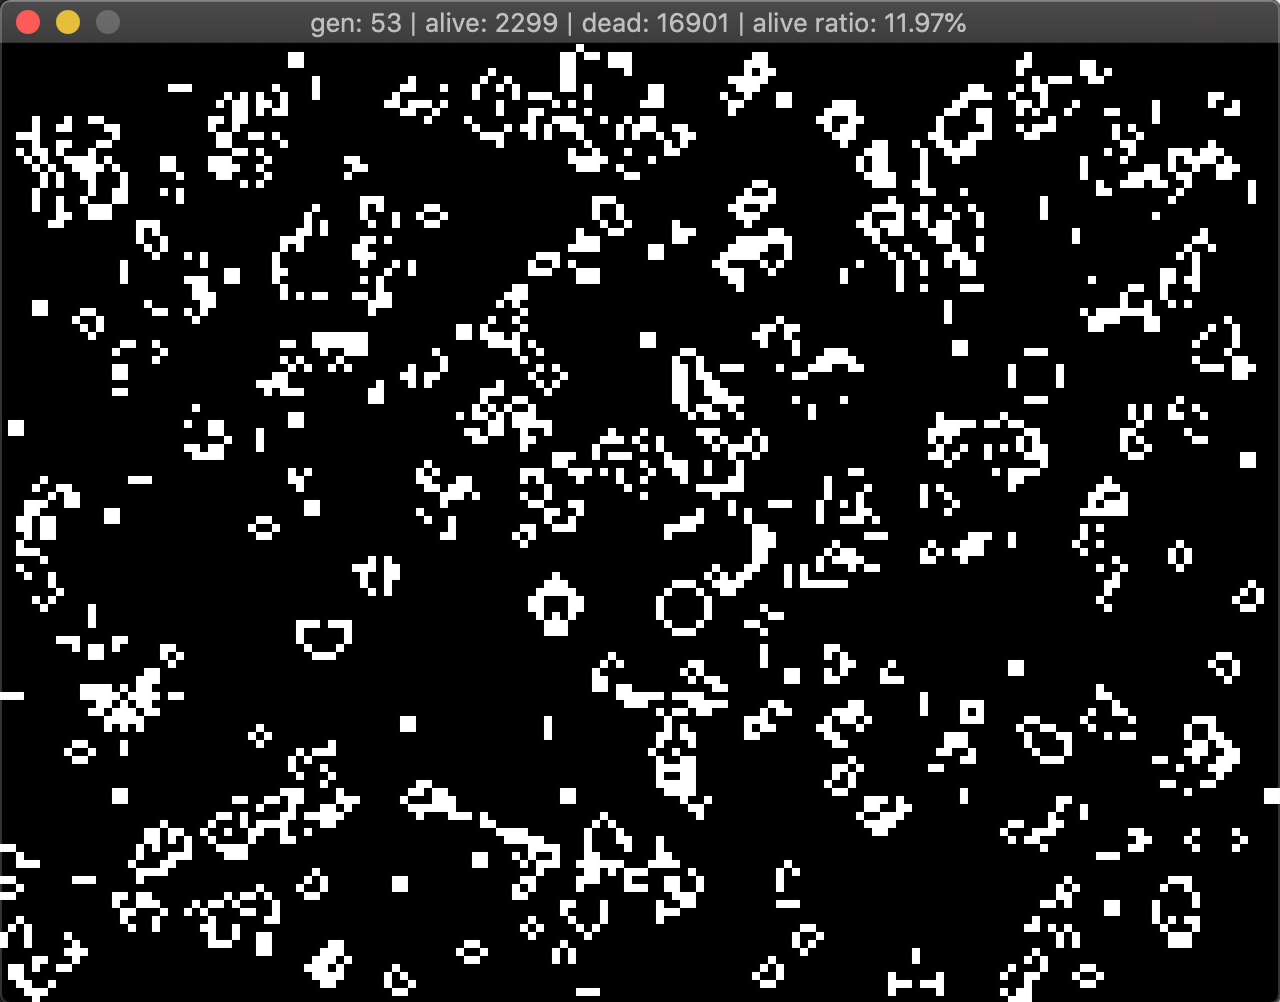
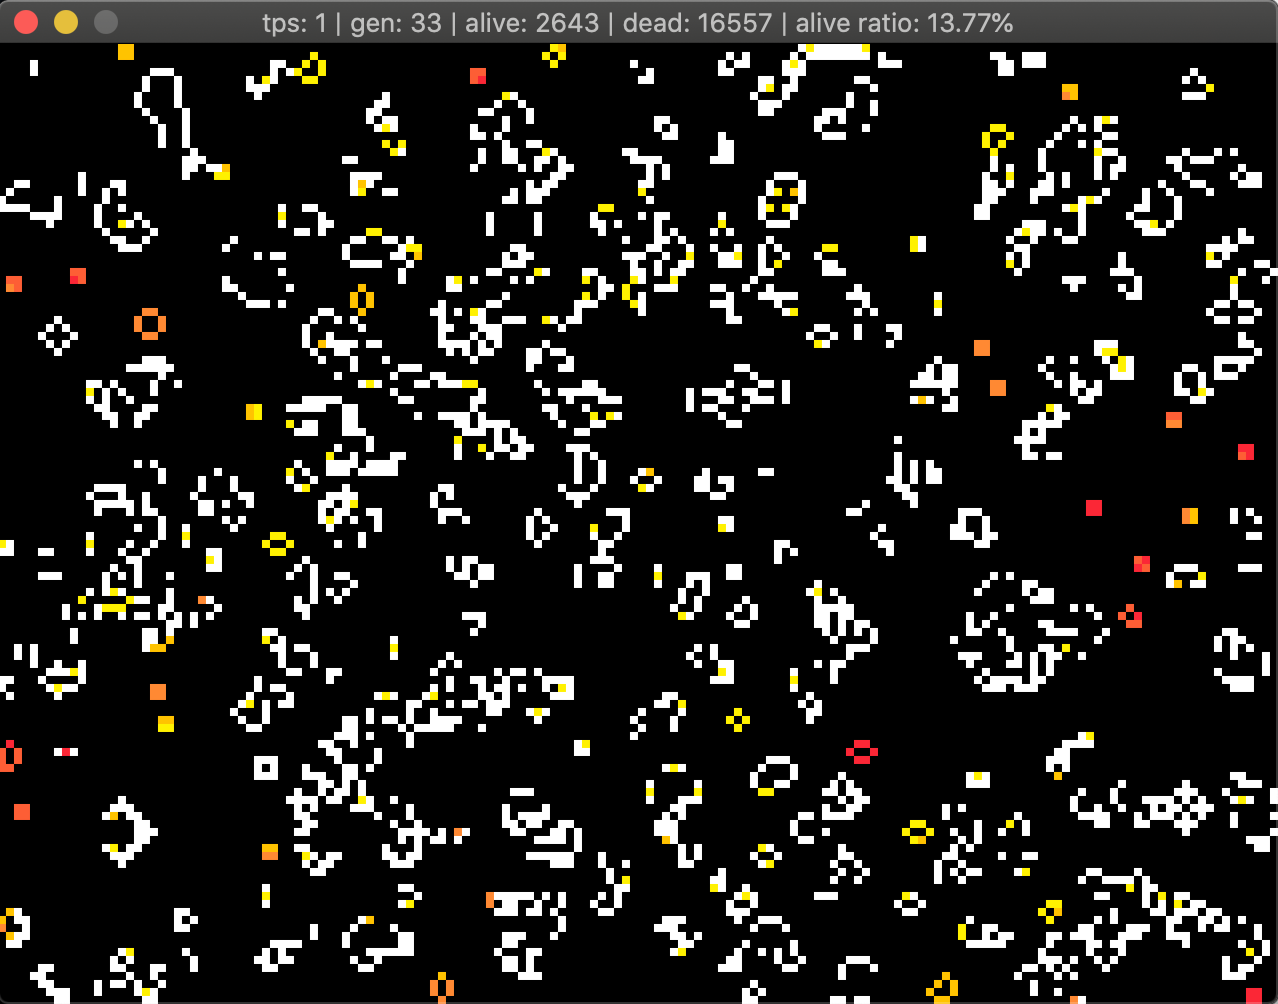
Add heatmap based on alive age and keys to modify TPS

diff --git a/world.go b/world.go
@@ -3,15 +3,31 @@ package main
 import (
 	"fmt"
 	"log"
+	"math"
 	"math/rand"
+	"sort"
 
 	"github.com/hajimehoshi/ebiten/v2"
 )
 
+var heatMapClr map[int][4]byte = map[int][4]byte{
+	0:  [4]byte{0xff, 0xff, 0xff, 0xff},
+	5:  [4]byte{0xff, 0xf3, 0x3b, 0xff},
+	10: [4]byte{0xfd, 0xc7, 0x0c, 0xff},
+	15: [4]byte{0xf3, 0x90, 0x3f, 0xff},
+	20: [4]byte{0xed, 0x68, 0x3c, 0xff},
+	25: [4]byte{0xe9, 0x3e, 0x3a, 0xff},
+}
+
+type Cell struct {
+	alive bool
+	age   int
+}
+
 type World struct {
 	width  int
 	height int
-	mtx    [][]bool
+	mtx    [][]Cell
 }
 
 func (w *World) heavyWeightSpaceship(x, y int) {
@@ -20,40 +36,45 @@ func (w *World) heavyWeightSpaceship(x, y int) {
 		log.Print("heavy weight spaceship index out of range")
 		return
 	}
-	w.mtx[x+2][y] = true
-	w.mtx[x+3][y] = true
 
-	w.mtx[x][y+1] = true
-	w.mtx[x+5][y+1] = true
+	hws := []point{
+		point{x: 2, y: 0, alive: true},
+		point{x: 3, y: 0, alive: true},
+		point{x: 0, y: 1, alive: true},
+		point{x: 5, y: 1, alive: true},
+		point{x: 6, y: 2, alive: true},
+		point{x: 0, y: 3, alive: true},
+		point{x: 6, y: 3, alive: true},
+		point{x: 1, y: 4, alive: true},
+		point{x: 2, y: 4, alive: true},
+		point{x: 3, y: 4, alive: true},
+		point{x: 4, y: 4, alive: true},
+		point{x: 5, y: 4, alive: true},
+		point{x: 6, y: 4, alive: true},
+	}
 
-	w.mtx[x+6][y+2] = true
-
-	w.mtx[x][y+3] = true
-	w.mtx[x+6][y+3] = true
-
-	w.mtx[x+1][y+4] = true
-	w.mtx[x+2][y+4] = true
-	w.mtx[x+3][y+4] = true
-	w.mtx[x+4][y+4] = true
-	w.mtx[x+5][y+4] = true
-	w.mtx[x+6][y+4] = true
+	for _, v := range hws {
+		w.mtx[x+v.x][y+v.y].alive = v.alive
+	}
 }
 
 func (w *World) randPopulate() {
 	for i := 0; i < 1337; i++ {
 		x := rand.Intn(w.width)
 		y := rand.Intn(w.height)
-		w.mtx[x][y] = true
+		w.mtx[x][y].alive = true
+		w.mtx[x][y].age = 1
 	}
-	globalTick = 0
 }
 
 func (w *World) reset() {
 	for x := range w.mtx {
 		for y := range w.mtx[x] {
-			w.mtx[x][y] = false
+			w.mtx[x][y].alive = false
+			w.mtx[x][y].age = 0
 		}
 	}
+	globalTick = 0
 }
 
 func (w *World) toPixel(p []byte) []byte {
@@ -65,9 +86,29 @@ func (w *World) toPixel(p []byte) []byte {
 			for n := range tmp {
 				tmp[n] = i + j + n
 			}
-			for _, pos := range tmp {
-				if w.mtx[x][y] {
-					p[pos] = 0xff
+
+			curr := w.mtx[x][y]
+
+			// needs to sort
+			keys := []int{}
+			for k := range heatMapClr {
+				keys = append(keys, k)
+			}
+			sort.Ints(keys)
+
+			// find interval
+			interClr := 0
+			for _, k := range keys {
+				if curr.age > k {
+					interClr = k
+					continue
+				}
+				break
+			}
+
+			for idx, pos := range tmp {
+				if w.mtx[x][y].alive {
+					p[pos] = heatMapClr[interClr][idx]
 					continue
 				}
 				p[pos] = 0
@@ -123,7 +164,7 @@ func (w *World) update() {
 	currAlive := 0
 	for x := 0; x < w.width; x++ {
 		for y := 0; y < w.height; y++ {
-			if w.mtx[x][y] {
+			if w.mtx[x][y].alive {
 				currAlive++
 			}
 			// Check all direction
@@ -142,7 +183,7 @@ func (w *World) update() {
 					continue
 				}
 
-				curr.alive = w.mtx[curr.x][curr.y]
+				curr.alive = w.mtx[curr.x][curr.y].alive
 				neigh = append(neigh, curr)
 
 			}
@@ -157,18 +198,21 @@ func (w *World) update() {
 			}
 
 			// Any live cell with two or three live neighbours survives.
-			if w.mtx[x][y] == true && (alive == 2 || alive == 3) {
+			if w.mtx[x][y].alive == true && (alive == 2 || alive == 3) {
+				w.mtx[x][y].age++
 				continue
 			}
 
 			// Any dead cell with three live neighbours becomes a live cell.
-			if w.mtx[x][y] == false && alive == 3 {
+			if w.mtx[x][y].alive == false && alive == 3 {
+				w.mtx[x][y].age = 1
 				next = append(next, point{x: x, y: y, alive: true})
 				continue
 			}
 
 			// All other live cells die in the next generation. Similarly, all other dead cells stay dead.
-			if w.mtx[x][y] == true {
+			if w.mtx[x][y].alive == true {
+				w.mtx[x][y].age = 0
 				next = append(next, point{x: x, y: y, alive: false})
 			}
 		}
@@ -177,7 +221,8 @@ func (w *World) update() {
 	currDead := w.width*w.height - currAlive
 	currAliveRatio := (float64(currAlive) / float64(currAlive+currDead)) * 100
 	ebiten.SetWindowTitle(
-		fmt.Sprintf("gen: %d | alive: %d | dead: %d | alive ratio: %.2f%%",
+		fmt.Sprintf("tps: %d | gen: %d | alive: %d | dead: %d | alive ratio: %.2f%%",
+			int(math.Round(ebiten.CurrentTPS())),
 			globalTick,
 			currAlive,
 			currDead,
@@ -185,6 +230,6 @@ func (w *World) update() {
 		))
 
 	for _, v := range next {
-		w.mtx[v.x][v.y] = v.alive
+		w.mtx[v.x][v.y].alive = v.alive
 	}
 }

diff --git a/main.go b/main.go
@@ -2,6 +2,7 @@ package main
 
 import (
 	"log"
+	"math"
 	"math/rand"
 	"time"
 
@@ -36,11 +37,21 @@ func (g *Game) Draw(screen *ebiten.Image) {
 			g.world.reset()
 		}
 
-		// p: reset world
+		// p: populate world
 		if ebiten.IsKeyPressed(ebiten.KeyP) {
 			log.Print("populating world")
 			g.world.randPopulate()
 		}
+	}
+
+	// update tps, up or down
+	currTPS := int(math.Round(ebiten.CurrentTPS()))
+	if ebiten.IsKeyPressed(ebiten.KeyUp) {
+		ebiten.SetMaxTPS(currTPS + 1)
+	}
+
+	if ebiten.IsKeyPressed(ebiten.KeyDown) && currTPS > 0 {
+		ebiten.SetMaxTPS(currTPS - 1)
 	}
 
 	// draw
@@ -58,10 +69,10 @@ func (g *Game) Update() error {
 	return nil
 }
 
-func initMtx(width, height int) [][]bool {
-	m := make([][]bool, width)
+func initMtx(width, height int) [][]Cell {
+	m := make([][]Cell, width)
 	for i := range m {
-		m[i] = make([]bool, height)
+		m[i] = make([]Cell, height)
 	}
 	return m
 }

diff --git a/README.md b/README.md
@@ -17,6 +17,7 @@ $ go run main.go world.go
 | -------------- | -------------------------------|
 | CTRL + P       | Randomly populates the world   |
 | CTRL + R       | Resets the world               |
+| UP / DOWN      | Increase or decrease TPS       |
 | H + Left Click | Inserts a [Heavyweight Spaceship](https://en.wikipedia.org/wiki/Conway%27s_Game_of_Life#/media/File:Animated_Hwss.gif) |
 
 ## Screenshots
